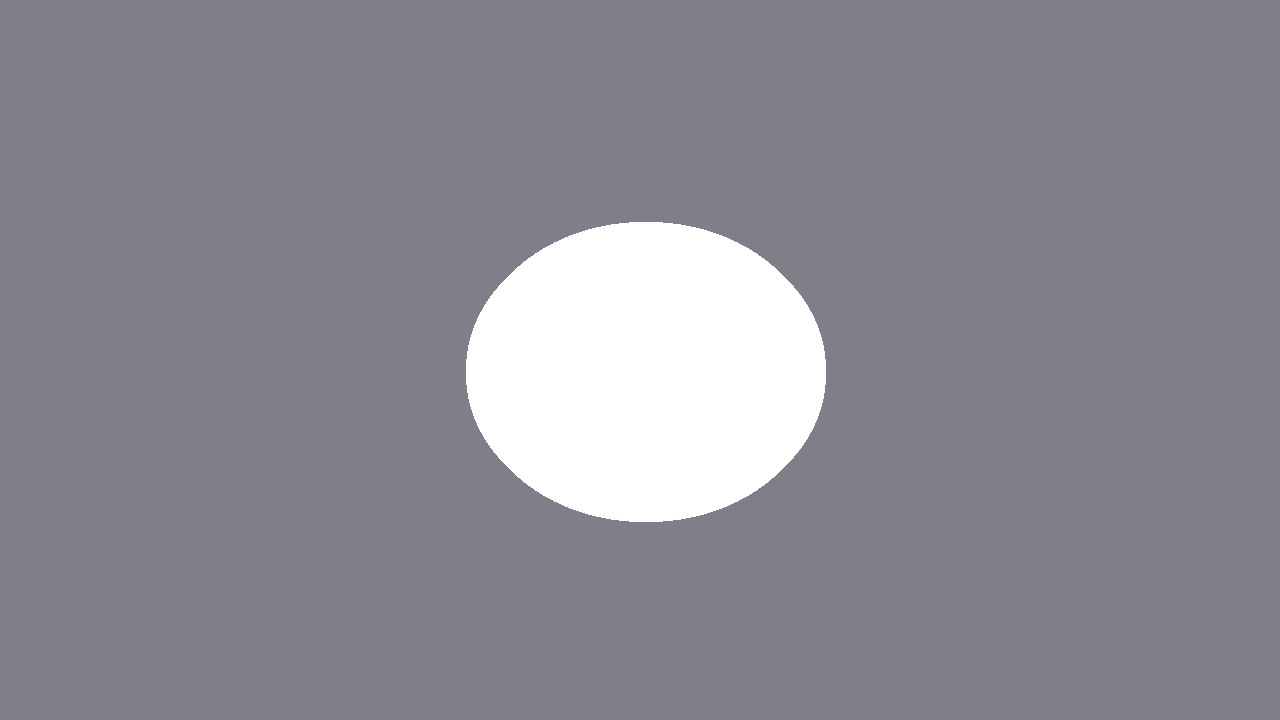
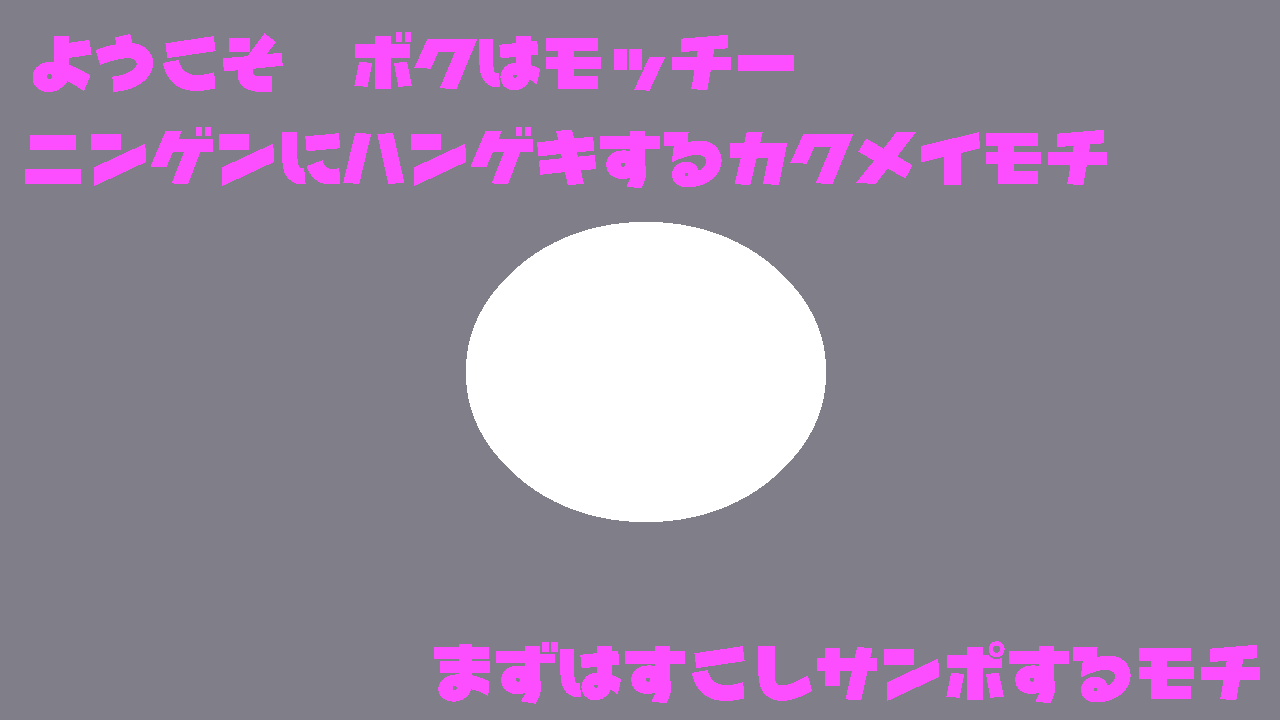
チュートリアル完成

diff --git a/scene/StartMap.cpp b/scene/StartMap.cpp
@@ -57,6 +57,12 @@ void StartMap::Initialize(DirectXCommon* dxCommon) {
 	concent = Sprite::Create(ImageManager::concent, { 0.0f,0.0f });
 	//背景スプライト生成
 	concent2 = Sprite::Create(ImageManager::concent2, { 0.0f,0.0f });
+	//背景スプライト生成
+	concent3 = Sprite::Create(ImageManager::concent3, { 0.0f,0.0f });
+	//背景スプライト生成
+	concent4 = Sprite::Create(ImageManager::concent4, { 0.0f,0.0f });
+	//背景スプライト生成
+	concent5 = Sprite::Create(ImageManager::concent5, { 0.0f,0.0f });
 
 	// モデル読み込み
 	Audio::GetInstance()->LoadSound(1, "Resources/BGM/NewWorld.wav");
@@ -184,13 +190,6 @@ void StartMap::Update(DirectXCommon* dxCommon) {
 			tutorial = 7;
 		}
 	}
-	//for (int j = 0; j < spawing->GetEneMax(); j++) {
-	//		if (spawing->GetEnemy(j)->collideAttackArm()) {
-	//			set = 15;
-	//			pause = true;
-	//			break;
-	//		}
-	//}
 	if (spawing->collideAttackArm()&&spawing->GetIsAlive()) {
 		hit = true;
 		set = spawing->GetStop();
@@ -256,7 +255,7 @@ void StartMap::Update(DirectXCommon* dxCommon) {
 	player->Update();
 	spawing->Update();
 	particleMan->Update();
-	for (int j = 0; j < 1; j++) {
+	for (int j = 0; j < 2; j++) {
 		player->ResetWeight(enemy[j]);
 		player->Rebound(enemy[j]);
 	}
@@ -269,10 +268,6 @@ void StartMap::Update(DirectXCommon* dxCommon) {
 	cameraPos.z = player->GetPosition().z - distanceZ;
 	camera->SetTarget(player->GetTargetPosition());
 	camera->SetEye(cameraPos);
-	if (player->GetArmWeight() > 0) {
-		DebugText::GetInstance()->Print("RB or LB :Rotate", 900, 620, 2.0f);
-	}
-	DebugText::GetInstance()->Print("A         :Hand", 900, 650, 2.0f);
 }
 
 void StartMap::Draw(DirectXCommon* dxCommon) {
@@ -295,8 +290,22 @@ void StartMap::Draw(DirectXCommon* dxCommon) {
 	ui->Draw();
 	Sprite::PreDraw();
 	//背景用
-	if (tutorial%2==1) {
+	switch (tutorial) {
+	case 1:
 		concent2->Draw();
+		break;
+	case 3:
+		concent3->Draw();
+		break;
+	case 5:
+		concent4->Draw();
+		break;
+	case 7:
+		concent5->Draw();
+		break;
+
+	default:
+		break;
 	}
 	// パーティクルの描画
 	particleMan->Draw(dxCommon->GetCmdList());

diff --git a/ImageManager.cpp b/ImageManager.cpp
@@ -12,6 +12,10 @@ void ImageManager::Load2D() {
 	Sprite::LoadTexture(life, L"Resources/2d/Life.png");
 	Sprite::LoadTexture(concent, L"Resources/2d/concent.png");
 	Sprite::LoadTexture(concent2, L"Resources/2d/concent2.png");
+	Sprite::LoadTexture(concent3, L"Resources/2d/concent3.png");
+	Sprite::LoadTexture(concent4, L"Resources/2d/concent4.png");
+	Sprite::LoadTexture(concent5, L"Resources/2d/concent5.png");
+
 	Sprite::LoadTexture(vignette, L"Resources/2d/Vignette.png");
 	Sprite::LoadTexture(CLEAR, L"Resources/2d/GAMECLEAR.png");
 	Sprite::LoadTexture(OVER, L"Resources/2d/GAMEOVER.png");

diff --git a/scene/StartMap.h b/scene/StartMap.h
@@ -49,6 +49,10 @@ private:
 	array<XMFLOAT3, 4> BlockRotation;
 	Sprite* concent = nullptr;
 	Sprite* concent2 = nullptr;
+	Sprite* concent3 = nullptr;
+	Sprite* concent4 = nullptr;
+	Sprite* concent5 = nullptr;
+
 	/*FBXModel* model1 = nullptr;
 	FBXObject3d* object1 = nullptr;*/
 	DebugCamera* camera = { nullptr };

diff --git a/ImageManager.h b/ImageManager.h
@@ -20,6 +20,9 @@ public:
 		vignette,//Sprite::LoadTexture(6, L"Resources/2d/Vignette.png");
 		concent,
 		concent2,
+		concent3,
+		concent4,
+		concent5,
 		punyu,
 		CLEAR,
 		OVER,
